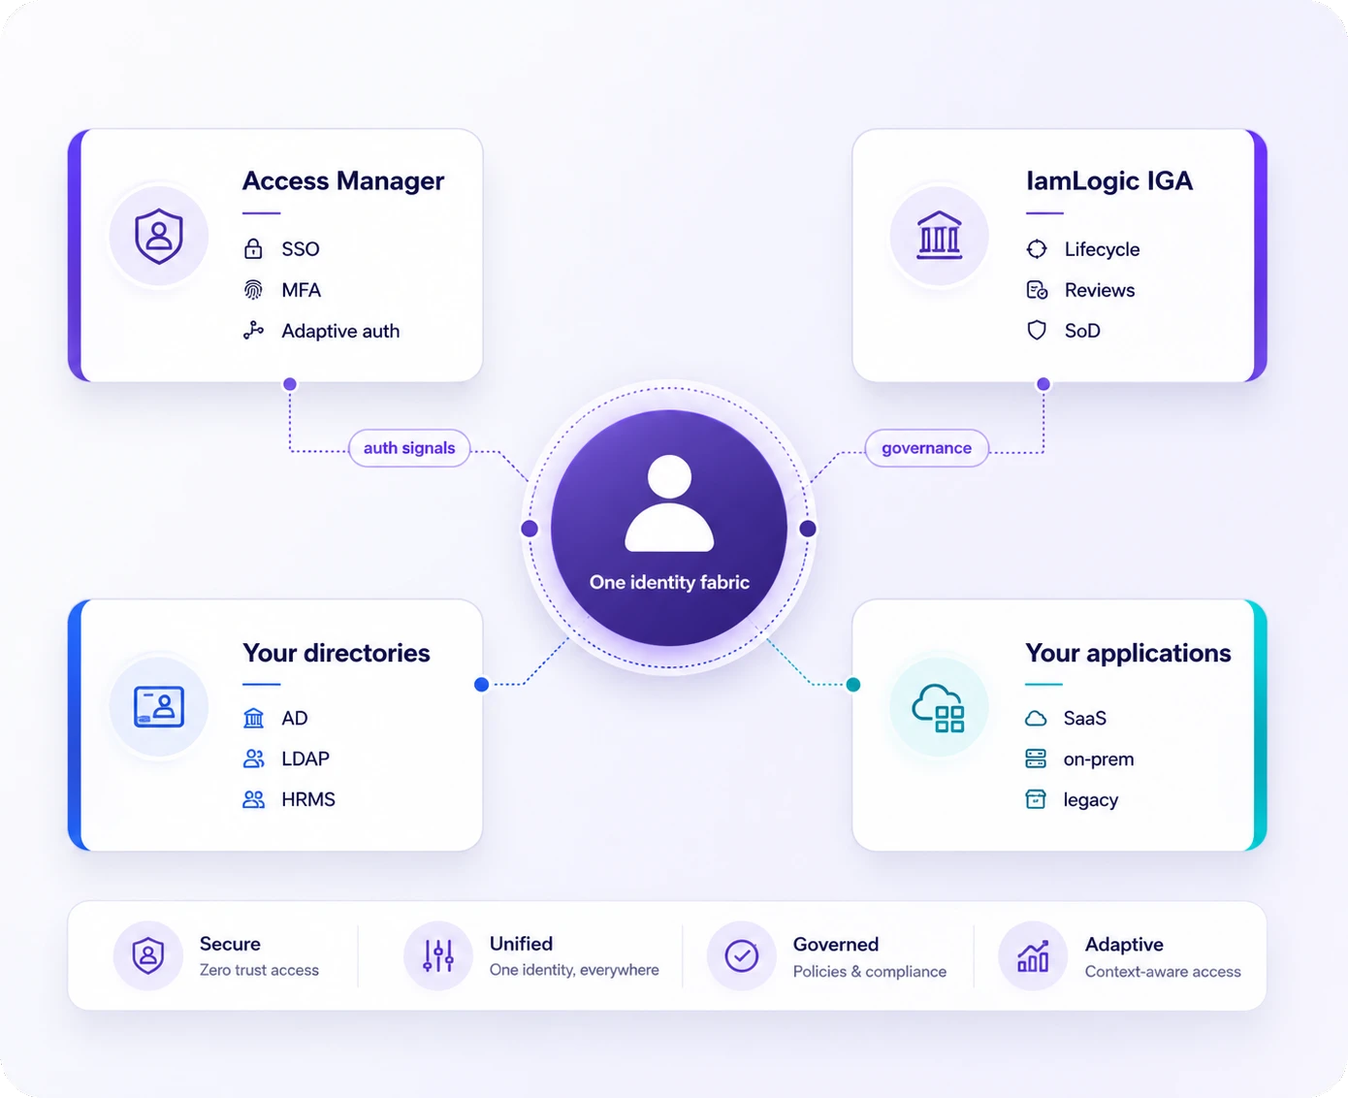
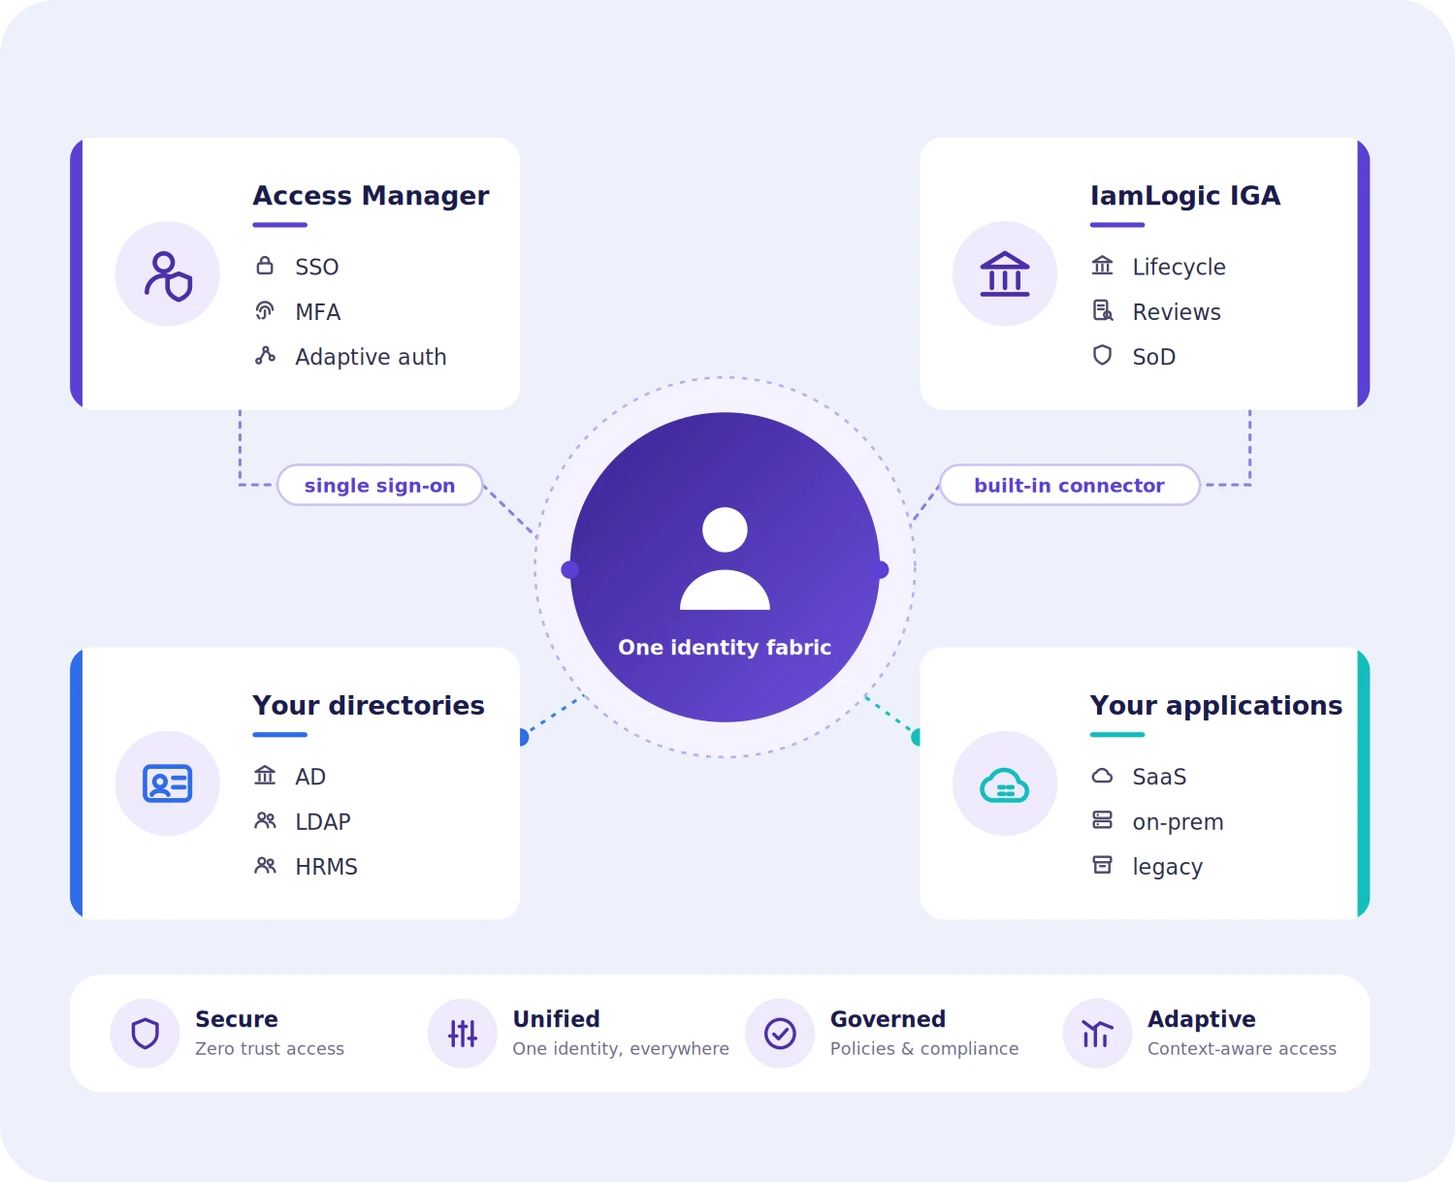
homepage revamped and final recommendations

diff --git a/assets/main.js b/assets/main.js
@@ -58,9 +58,19 @@
     turnstileQueue.forEach(function (fn) { fn(); });
     turnstileQueue = [];
   };
+  // Turnstile's script is a heavy third-party load, so no page includes it
+  // up front: the first widget that asks for it pulls it in (lead forms on
+  // first focus or tap, the quick-contact box and case-study modal on open).
+  var TURNSTILE_SRC = "https://challenges.cloudflare.com/turnstile/v0/api.js?onload=iamlogicTurnstileOnload&render=explicit";
+  function loadTurnstile() {
+    if (window.turnstile || document.querySelector('script[src*="challenges.cloudflare.com/turnstile"]')) return;
+    var s = document.createElement("script");
+    s.src = TURNSTILE_SRC; s.async = true; s.defer = true;
+    document.head.appendChild(s);
+  }
   function turnstileWhenReady(fn) {
     if (turnstileReady && window.turnstile) fn();
-    else turnstileQueue.push(fn);
+    else { turnstileQueue.push(fn); loadTurnstile(); }
   }
   function turnstileRender(el) {
     // The normal widget is a fixed 300px; on narrower phones it would push the
@@ -81,6 +91,24 @@
   // Google Tag Manager (see "Analytics & cookie consent" below). Container
   // ID from tagmanager.google.com → your container (format "GTM-XXXXXXX").
   var GTM_CONTAINER_ID = "GTM-T5LC3HBB";
+
+  // The live site. Anywhere else (the GitHub Pages staging copy, localhost)
+  // Tag Manager never loads, and every page is switched to noindex so search
+  // engines don't index the staging copy. GitHub Pages can't send an
+  // X-Robots-Tag header, and robots.txt doesn't apply at a project subpath,
+  // so this is the one place it can be done. Google renders JavaScript and
+  // honours a robots meta changed to noindex this way.
+  var PRODUCTION_HOSTS = ["iamlogic.com", "www.iamlogic.com"];
+  var IS_PRODUCTION = PRODUCTION_HOSTS.indexOf(location.hostname) !== -1;
+  if (!IS_PRODUCTION) {
+    var robotsMeta = document.querySelector('meta[name="robots"]');
+    if (!robotsMeta) {
+      robotsMeta = document.createElement("meta");
+      robotsMeta.name = "robots";
+      document.head.appendChild(robotsMeta);
+    }
+    robotsMeta.content = "noindex, nofollow";
+  }
 
   // Header navigation. `groups` renders a dropdown; a bare `href` is a plain link.
   var NAV = [
@@ -137,7 +165,7 @@
             { label: "RBI Cybersecurity Framework", href: "compliance/rbi-cybersecurity-framework/" },
             { label: "SEBI CSCRF", href: "compliance/sebi-cscrf/" },
             { label: "IRDAI Guidelines", href: "compliance/irdai-guidelines/" },
-            { label: "ISO 27001", href: "compliance/iso-27001/" }
+            { label: "ISO/IEC 27001", href: "compliance/iso-27001/" }
           ]
         }
       ]
@@ -163,7 +191,7 @@
           heading: "Company",
           links: [
             { label: "About IamLogic", href: "about/", description: "Who we are and why we build in India" },
-            { label: "Security & Trust", href: "security/", description: "ISO 27001, architecture and data residency" },
+            { label: "Security & Trust", href: "security/", description: "ISO/IEC 27001, architecture and data residency" },
             { label: "IAM Services", href: "services/", description: "Consulting, connectors and managed services" },
             { label: "Partners", href: "partners/", description: "Resell, implement or integrate with IamLogic" },
             { label: "Careers", href: "careers/", description: "Build identity security from Bengaluru" },
@@ -194,7 +222,7 @@
       { label: "RBI Cybersecurity Framework", href: "compliance/rbi-cybersecurity-framework/" },
       { label: "SEBI CSCRF", href: "compliance/sebi-cscrf/" },
       { label: "IRDAI Guidelines", href: "compliance/irdai-guidelines/" },
-      { label: "ISO 27001", href: "compliance/iso-27001/" }
+      { label: "ISO/IEC 27001", href: "compliance/iso-27001/" }
     ]},
     { heading: "Resources", links: [
       { label: "Blog", href: "blog/" },
@@ -398,7 +426,7 @@
       '<a href="mailto:' + SITE.email + '">' + SITE.email + "</a><br>" +
       '<a href="tel:' + SITE.phone + '">' + SITE.phone + "</a></p>" + social + "</div>" + cols + "</div>" +
       '<div class="footer-bottom"><p class="footer-bottom__copy">&copy; <span data-year></span> IamLogic. All rights reserved.</p>' +
-      '<div class="footer-bottom__meta"><strong>ISO/IEC 27001:2022 certified</strong>' +
+      '<div class="footer-bottom__meta"><strong>ISO/IEC 27001 certified</strong>' +
       '<a href="' + url("privacy/") + '">Privacy</a><a href="' + url("terms/") + '">Terms</a>' +
       '<button type="button" class="link-button" data-consent="manage">Cookie settings</button></div></div>' +
       "</div></div>";
@@ -505,7 +533,9 @@
     return !msg;
   }
 
-  function wireLeadForm(form) {
+  // eagerTurnstile: render the widget at once (the quick-contact box, which is
+  // only built when a visitor opens it) instead of on first focus or tap.
+  function wireLeadForm(form, eagerTurnstile) {
     var requiredInputs = Array.prototype.filter.call(form.elements, function (el) {
       return el.name && el.hasAttribute("required");
     });
@@ -515,7 +545,18 @@
 
     var tsId = null;
     var tsEl = form.querySelector("[data-turnstile]");
-    if (tsEl) turnstileWhenReady(function () { tsId = turnstileRender(tsEl); form._tsId = tsId; });
+    // Render the widget (and so load Turnstile) only once the visitor starts
+    // on the form, keeping it out of the page load.
+    function startTurnstile() {
+      form.removeEventListener("focusin", startTurnstile);
+      form.removeEventListener("pointerdown", startTurnstile);
+      turnstileWhenReady(function () { tsId = turnstileRender(tsEl); form._tsId = tsId; });
+    }
+    if (tsEl && eagerTurnstile) startTurnstile();
+    else if (tsEl) {
+      form.addEventListener("focusin", startTurnstile);
+      form.addEventListener("pointerdown", startTurnstile);
+    }
 
     form.addEventListener("submit", function (e) {
       e.preventDefault();
@@ -598,7 +639,7 @@
      configured inside the GTM container itself, not here. */
   var gtmLoaded = false;
   function loadGTM() {
-    if (gtmLoaded) return;
+    if (gtmLoaded || !IS_PRODUCTION) return;   // never on staging/localhost
     gtmLoaded = true;
     (function (w, d, s, l, i) {
       w[l] = w[l] || [];
@@ -731,7 +772,6 @@
      forms; intent "quick-contact" labels these leads in Zoho. The trigger
      keeps its href to contact/, so without JS (or with a modifier-click) it
      still goes to the full page. Turnstile's script loads on first open. */
-  var TURNSTILE_SRC = "https://challenges.cloudflare.com/turnstile/v0/api.js?onload=iamlogicTurnstileOnload&render=explicit";
   var qc = { box: null, body: null, last: null };
   // Country calling codes for the quick-contact phone field (India first =
   // default). Shown as "IN +91": flag emoji don't render on Windows.
@@ -743,13 +783,6 @@
     ["ZA", "+27"], ["KE", "+254"], ["NG", "+234"], ["LK", "+94"], ["BD", "+880"],
     ["NP", "+977"], ["JP", "+81"], ["HK", "+852"], ["PH", "+63"]
   ];
-
-  function loadTurnstile() {
-    if (window.turnstile || document.querySelector('script[src*="challenges.cloudflare.com/turnstile"]')) return;
-    var s = document.createElement("script");
-    s.src = TURNSTILE_SRC; s.async = true; s.defer = true;
-    document.head.appendChild(s);
-  }
 
   function qcBuild() {
     var o = document.createElement("div");
@@ -808,11 +841,10 @@
   function qcOpen(trigger) {
     if (!qc.box) qcBuild();
     if (!qc.box.hasAttribute("hidden")) { qcClose(); return; }   // tab toggles
-    loadTurnstile();
     qc.last = trigger || document.activeElement;
     qc.body.innerHTML = qcForm();            // fresh form every time
     var form = qc.body.querySelector("form");
-    wireLeadForm(form);
+    wireLeadForm(form, true);
     qc.box.removeAttribute("hidden");
     void qc.box.offsetWidth;                 // reflow so the transition runs
     qc.box.classList.add("is-open");
@@ -895,7 +927,7 @@
       el.textContent = new Date().getFullYear();
     });
     // Lead forms
-    Array.prototype.forEach.call(document.querySelectorAll("[data-lead-form]"), wireLeadForm);
+    Array.prototype.forEach.call(document.querySelectorAll("[data-lead-form]"), function (form) { wireLeadForm(form); });
     // Quick-contact bar (right edge) + its Contact Us dialog
     renderQuickBar();
     wireQuickContact();

diff --git a/index.html b/index.html
@@ -177,7 +177,7 @@
               <li>SSO — SAML · OIDC · OAuth2 · RADIUS</li>
               <li>MFA and passwordless — WebAuthn · push · TOTP · SMS/Email OTP</li>
               <li>Context-based authentication with Python-scriptable policies</li>
-              <li>Legacy app SSO through our browser extension</li>
+              <li>Legacy app SSO through our browser plugin</li>
             </ul>
             <div class="mt-6">
               <a class="btn btn--secondary" href="./products/access-manager/">Explore Access Manager <i data-icon="arrow-right"></i></a>
@@ -211,7 +211,7 @@
         <div class="section-heading">
           <p class="eyebrow">Why IamLogic</p>
           <h2 class="h2">Global-grade capability. Indian-regulation fluency.</h2>
-          <p class="lead">IamLogic combines global enterprise identity security with regulatory mapping for India, delivering secure access and compliance for modern enterprises.</p>
+          <p class="lead">IamLogic combines global-grade identity and access management with support for Indian regulatory requirements, helping enterprises secure access and support their audits and reviews.</p>
         </div>
         <div class="grid sm:cols-2 mt-12">
           <div class="card" style="padding:1.75rem">
@@ -227,7 +227,7 @@
           <div class="card" style="padding:1.75rem">
             <span class="icon-badge"><i data-icon="puzzle"></i></span>
             <h3 class="mt-4" style="font-size:1.125rem;font-weight:700;color:var(--indigo-950)">Extend Protection to Legacy Apps</h3>
-            <p class="mt-2 text-muted" style="line-height:1.7">Connect modern and legacy applications through supported integration methods — Python-based connectors, browser-extension SSO for supported legacy web apps, and ticketing workflows.</p>
+            <p class="mt-2 text-muted" style="line-height:1.7">Connect modern and legacy applications through supported integration methods — Python-based connectors, browser-plugin SSO for supported legacy web apps, and ticketing workflows.</p>
           </div>
           <div class="card" style="padding:1.75rem">
             <span class="icon-badge"><i data-icon="workflow"></i></span>
@@ -252,7 +252,7 @@
               <a class="btn btn--secondary" href="./platform/">Explore the IamLogic Platform <i data-icon="arrow-right"></i></a>
             </div>
           </div>
-          <img src="./assets/platform-diagram.webp" alt="IamLogic identity and access management platform: Access Manager (SSO, MFA, adaptive authentication) and IamLogic IGA (lifecycle, access reviews, SoD) connected to your directories and applications." width="1390" height="1132" loading="lazy" decoding="async">
+          <img src="./assets/platform-diagram.webp" alt="IamLogic identity and access management platform: Access Manager (SSO, MFA, adaptive authentication) and IamLogic IGA (lifecycle, access reviews, SoD) connected to your directories and applications." width="1500" height="1219" loading="lazy" decoding="async">
         </div>
       </div>
     </section>
@@ -272,7 +272,7 @@
           </div>
           <div class="cap-dark">
             <span class="cap-dark__icon"><i data-icon="fingerprint"></i></span>
-            <div><h3>Adaptive MFA and Passwordless Authentication</h3><p>WebAuthn, Push-Notification, TOTP and OTP, with context-aware access policies.</p></div>
+            <div><h3>Adaptive MFA and Passwordless Authentication</h3><p>WebAuthn, push notifications, TOTP and OTP, with context-aware access policies.</p></div>
           </div>
           <div class="cap-dark">
             <span class="cap-dark__icon"><i data-icon="refresh-ccw"></i></span>
@@ -288,7 +288,7 @@
           </div>
           <div class="cap-dark">
             <span class="cap-dark__icon"><i data-icon="landmark"></i></span>
-            <div><h3>Compliance and Audit Reporting</h3><p>Audit-Trails, Identity-History and Access-Review reports that support reviews for DPDP, RBI, SEBI, IRDAI and ISO/IEC 27001 requirements.</p></div>
+            <div><h3>Compliance and Audit Reporting</h3><p>Audit trail, identity history and access review reports that support reviews for DPDP, RBI, SEBI, IRDAI and ISO/IEC 27001 requirements.</p></div>
           </div>
         </div>
       </div>

diff --git a/platform/index.html b/platform/index.html
@@ -96,8 +96,9 @@
             <h1>Access and governance were never separate problems.</h1>
             <p class="hero__lead">
               Vendors split identity into products; auditors and attackers never did.
-              IamLogic's two products share one identity fabric — signals flow both
-              ways, evidence lands in one place.
+              IamLogic's two products work as one platform: sign in to IamLogic IGA
+              with Access Manager single sign-on, and manage Access Manager users and
+              groups from IGA through a built-in connector.
             </p>
             <div class="hero__actions">
               <a class="btn btn--on-dark btn--lg" href="../demo/">Request a Demo <i data-icon="arrow-right"></i></a>
@@ -114,7 +115,7 @@
           </div>
           <div class="rise-in rise-in--delay">
             <div class="hero__media--framed">
-              <img src="../assets/platform-diagram.webp" alt="Diagram: Access Manager and IamLogic IGA operating on one identity fabric" width="1390" height="1132">
+              <img src="../assets/platform-diagram.webp" alt="IamLogic identity and access management platform: Access Manager (SSO, MFA, adaptive authentication) and IamLogic IGA (lifecycle, access reviews, SoD) connected to your directories and applications." width="1500" height="1219">
             </div>
           </div>
         </div>
@@ -131,8 +132,8 @@
         </div>
         <div class="grid sm:cols-2 mt-12">
           <div class="card" style="padding:1.75rem">
-            <h3 class="h3" style="font-size:1.125rem">Authentication signals inform governance</h3>
-            <p class="mt-2 text-muted" style="line-height:1.7">Access Manager knows which entitlements are actually used, from where, and how often. During certifications, IGA surfaces that context — 'granted 2 years ago, never used' — turning rubber-stamp reviews into informed revocations.</p>
+            <h3 class="h3" style="font-size:1.125rem">Single sign-on into governance</h3>
+            <p class="mt-2 text-muted" style="line-height:1.7">Reviewers and administrators sign in to IamLogic IGA with Access Manager single sign-on — SAML, OpenID Connect or RADIUS — the same way they sign in to every other application.</p>
           </div>
           <div class="card" style="padding:1.75rem">
             <h3 class="h3" style="font-size:1.125rem">Governance decisions enforce at login</h3>
@@ -144,7 +145,7 @@
           </div>
           <div class="card" style="padding:1.75rem">
             <h3 class="h3" style="font-size:1.125rem">One vendor, one deployment, one support line</h3>
-            <p class="mt-2 text-muted" style="line-height:1.7">Same connector framework, same deployment models, same Bengaluru-based engineers on support. No systems-integration project to make your own identity stack talk to itself.</p>
+            <p class="mt-2 text-muted" style="line-height:1.7">Same connector framework, same deployment models, same Bengaluru-based engineers on support. Connecting the two takes an OAuth client in Access Manager and a few connector fields in IGA.</p>
           </div>
         </div>
       </div>

diff --git a/products/identity-governance/index.html b/products/identity-governance/index.html
@@ -83,7 +83,7 @@
       "name": "Can IGA work independently of Access Manager?",
       "acceptedAnswer": {
         "@type": "Answer",
-        "text": "Yes. IGA can operate independently. When used with Access Manager, authentication signals can enrich governance decisions and governance outcomes can inform access enforcement."
+        "text": "Yes. IGA can operate independently. When used with Access Manager, IGA users sign in with Access Manager single sign-on, and IGA manages Access Manager users and groups through a built-in connector."
       }
     },
     {
@@ -363,7 +363,7 @@
           <h2 class="h2">Identity Governance FAQs</h2>
         </div>
         <div class="mt-10 maxw-3xl">
-          <div class="faq"><details><summary>What drives identity lifecycle events?</summary><p>Authoritative sources can include HRMS platforms, databases, files or APIs through the Python connector framework. External populations can use their own systems of record.</p></details><details><summary>How do you provision apps without APIs?</summary><p>For applications without APIs, IGA can use ticketing workflows such as ServiceNow or Jira, with completion documented and governed.</p></details><details><summary>Can IGA work independently of Access Manager?</summary><p>Yes. IGA can operate independently. When used with Access Manager, authentication signals can enrich governance decisions and governance outcomes can inform access enforcement.</p></details><details><summary>Does IGA support on-premises deployment?</summary><p>Yes. IGA supports on-premises, private cloud and hybrid deployment, with high availability and disaster recovery.</p></details><details><summary>How long does IGA deployment take?</summary><p>Initial rollout can be completed in weeks; full coverage depends on application count, integrations and onboarding requirements.</p></details>
+          <div class="faq"><details><summary>What drives identity lifecycle events?</summary><p>Authoritative sources can include HRMS platforms, databases, files or APIs through the Python connector framework. External populations can use their own systems of record.</p></details><details><summary>How do you provision apps without APIs?</summary><p>For applications without APIs, IGA can use ticketing workflows such as ServiceNow or Jira, with completion documented and governed.</p></details><details><summary>Can IGA work independently of Access Manager?</summary><p>Yes. IGA can operate independently. When used with Access Manager, IGA users sign in with Access Manager single sign-on, and IGA manages Access Manager users and groups through a built-in connector.</p></details><details><summary>Does IGA support on-premises deployment?</summary><p>Yes. IGA supports on-premises, private cloud and hybrid deployment, with high availability and disaster recovery.</p></details><details><summary>How long does IGA deployment take?</summary><p>Initial rollout can be completed in weeks; full coverage depends on application count, integrations and onboarding requirements.</p></details>
           </div>
         </div>
       </div>

diff --git a/resources/case-studies/access-certification-automation-at-scale/index.html b/resources/case-studies/access-certification-automation-at-scale/index.html
@@ -244,6 +244,5 @@
   </main>
   <footer id="site-footer"></footer>
   <script src="../../../assets/case-study-modal.js" defer></script>
-  <script src="https://challenges.cloudflare.com/turnstile/v0/api.js?onload=iamlogicTurnstileOnload&render=explicit" async defer></script>
 </body>
 </html>

diff --git a/resources/case-studies/identity-lifecycle-automation-jml/index.html b/resources/case-studies/identity-lifecycle-automation-jml/index.html
@@ -240,6 +240,5 @@
   </main>
   <footer id="site-footer"></footer>
   <script src="../../../assets/case-study-modal.js" defer></script>
-  <script src="https://challenges.cloudflare.com/turnstile/v0/api.js?onload=iamlogicTurnstileOnload&render=explicit" async defer></script>
 </body>
 </html>

diff --git a/resources/case-studies/sso-mfa-privileged-access-protection/index.html b/resources/case-studies/sso-mfa-privileged-access-protection/index.html
@@ -237,6 +237,5 @@
   </main>
   <footer id="site-footer"></footer>
   <script src="../../../assets/case-study-modal.js" defer></script>
-  <script src="https://challenges.cloudflare.com/turnstile/v0/api.js?onload=iamlogicTurnstileOnload&render=explicit" async defer></script>
 </body>
 </html>

diff --git a/resources/case-studies/index.html b/resources/case-studies/index.html
@@ -157,6 +157,5 @@
   </main>
   <footer id="site-footer"></footer>
   <script src="../../assets/case-study-modal.js" defer></script>
-  <script src="https://challenges.cloudflare.com/turnstile/v0/api.js?onload=iamlogicTurnstileOnload&render=explicit" async defer></script>
 </body>
 </html>

diff --git a/contact/index.html b/contact/index.html
@@ -165,6 +165,5 @@
 
   <footer id="site-footer"></footer>
   <script src="../assets/booking-modal.js" defer></script>
-  <script src="https://challenges.cloudflare.com/turnstile/v0/api.js?onload=iamlogicTurnstileOnload&render=explicit" async defer></script>
 </body>
 </html>

diff --git a/demo/index.html b/demo/index.html
@@ -142,6 +142,5 @@
 
   <footer id="site-footer"></footer>
   <script src="../assets/booking-modal.js" defer></script>
-  <script src="https://challenges.cloudflare.com/turnstile/v0/api.js?onload=iamlogicTurnstileOnload&render=explicit" async defer></script>
 </body>
 </html>

diff --git a/partners/apply/index.html b/partners/apply/index.html
@@ -167,6 +167,5 @@
   </main>
 
   <footer id="site-footer"></footer>
-  <script src="https://challenges.cloudflare.com/turnstile/v0/api.js?onload=iamlogicTurnstileOnload&render=explicit" async defer></script>
 </body>
 </html>

diff --git a/CLAUDE.md b/CLAUDE.md
@@ -244,11 +244,13 @@ power this, both scoped narrowly to the lead forms:
   into the matching `ZOHO`/`ZOHO_PARTNER` object, and re-check
   `INTEREST_MAP`/the partner `<select>` options against their picklists.
 - **Cloudflare Turnstile script** (`challenges.cloudflare.com/turnstile/v0/api.js`,
-  included on `demo/`, `contact/`, `pricing/`, `partners/apply/`, and
-  injected on demand by `main.js` on any page when the quick-contact
+  never in a page's HTML: `main.js` injects it on demand, so it stays out of
+  page load (PageSpeed). A `[data-lead-form]` with a `[data-turnstile]` box
+  loads it on the visitor's first focus or tap in the form; the quick-contact
   form box — the right-edge bar's "Contact Us" tab, `[data-quick-contact]` —
-  is first opened; that box is a shortened contact form posting to the
-  same endpoint with `intent: "quick-contact"`) — the one
+  and the case-study download modal load it when opened. The quick-contact
+  box is a shortened contact form posting to the same endpoint with
+  `intent: "quick-contact"`. Don't add the script tag to pages) — the one
   external CDN script in the site. Unavoidable: no hosted captcha can be
   self-hosted. Replace the placeholder `TURNSTILE_SITEKEY` in `assets/main.js`
   (currently Cloudflare's public "always passes" test key) with your real
@@ -314,6 +316,16 @@ Three more deliberate exceptions to the "self-hosted only" rule.
   also carries GTM's static `<noscript><iframe>` fallback right after
   `<body>` (see "Page anatomy" above) — unlike the JS loader, it's **not**
   consent-gated, since plain HTML can't run a consent check.
+  **Production only:** `PRODUCTION_HOSTS` in `main.js` (`iamlogic.com`,
+  `www.iamlogic.com`). On any other host — the GitHub Pages staging copy,
+  localhost — GTM never loads, even after "Accept", and `main.js` switches
+  the page's robots meta to `noindex, nofollow` (GitHub Pages can't send an
+  X-Robots-Tag header, and `robots.txt` doesn't apply at a project subpath).
+  Add a host there if production ever moves.
+  Successful lead-form submissions (and gated case-study downloads) push
+  `{ event: "generate_lead", form_intent }` to the dataLayer — never on a
+  button click, and with no personal data. The matching trigger, GA4 event
+  tag and key-event setting live in the Tag Manager / GA4 UIs.
 - **Microsoft Bookings iframe** — `assets/booking-modal.js` is a separate,
   self-contained file (unlike everything else, which lives in `main.js`) so
   it can be dropped onto only the pages that need it, the same way the
